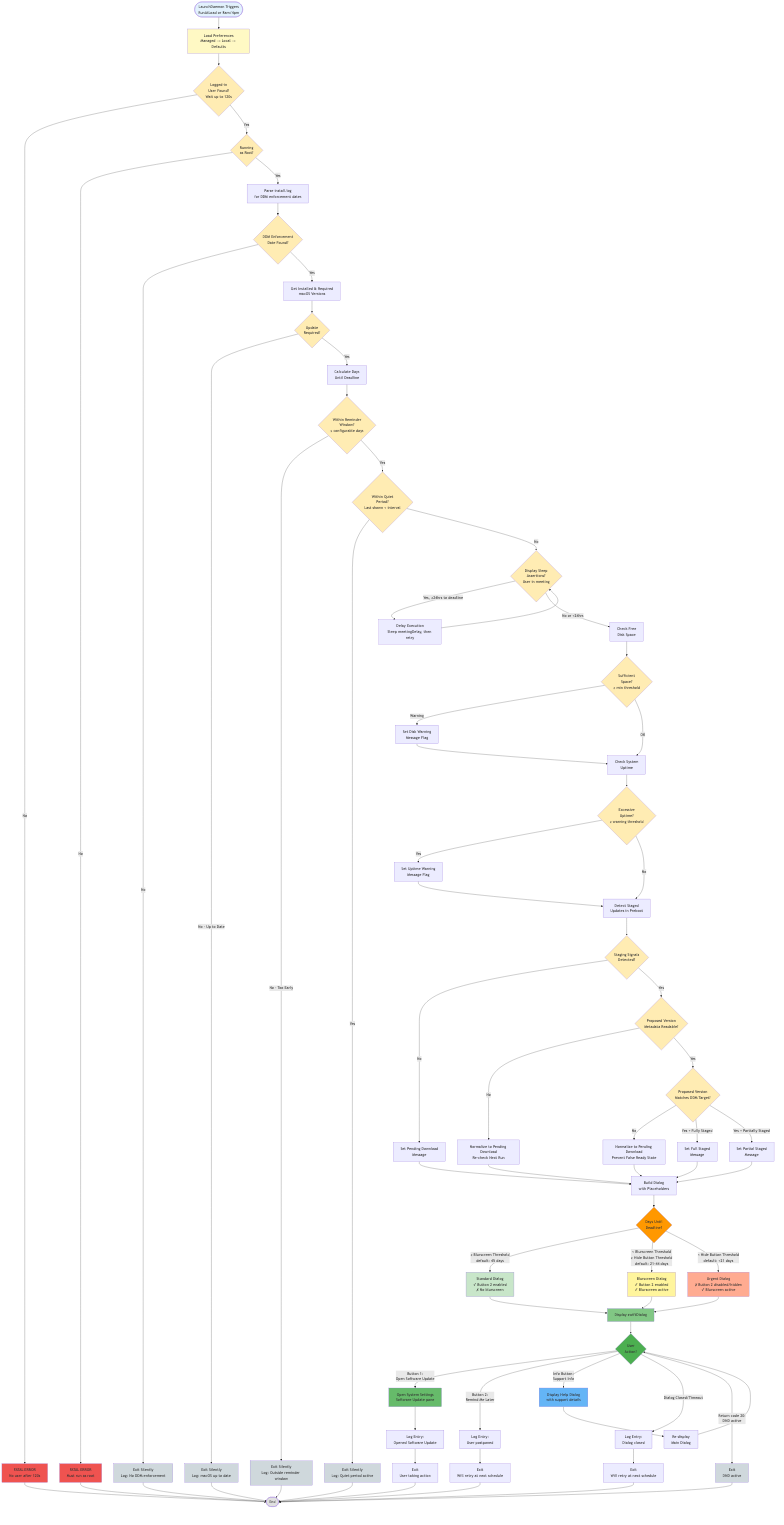
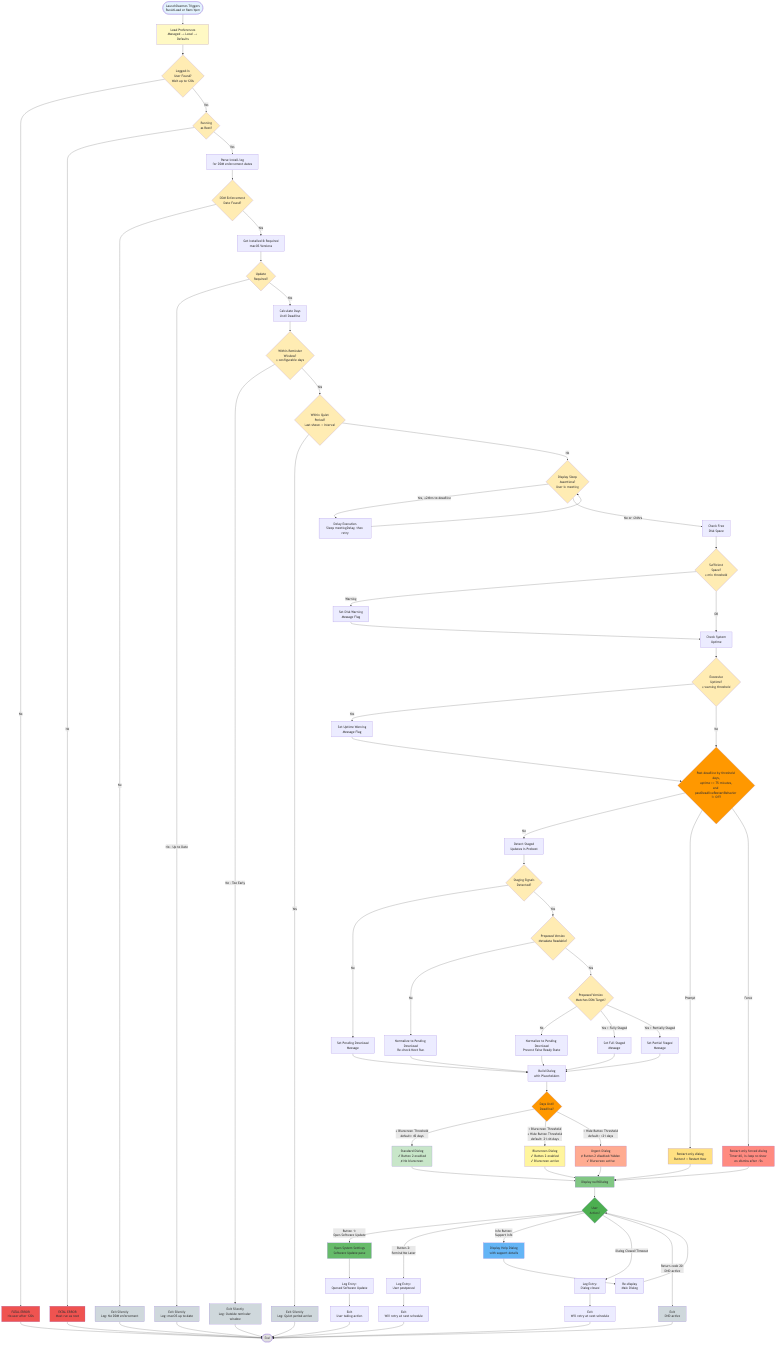
2.6.0b4

diff --git a/Diagrams/06-configuration-reference.md b/Diagrams/06-configuration-reference.md
@@ -288,6 +288,7 @@ sudo defaults write /Library/Preferences/org.churchofjesuschrist.dorm \
 - `versionComparisonResult` = Update Required
 - DDM enforcement deadline is in the past
 - Days past DDM deadline are greater than or equal to `daysPastDeadlineRestartWorkflow`
+- Current uptime is greater than or equal to 75 minutes
 
 **Script Default**:
 ```bash
@@ -1720,9 +1721,10 @@ cat /Library/Managed\ Preferences/org.churchofjesuschrist.dorm.plist
 | 2.3.0 | 2026-01-19 | Initial configuration reference documentation |
 | 2.5.0 | 2026-02-14 | Updated staged-update criteria documentation to reflect proposed metadata validation and pending-download normalization behavior |
 | 2.6.0b3 | 2026-02-27 | Added `pastDeadlineRestartBehavior` and `daysPastDeadlineRestartWorkflow` configuration documentation for Yukon Cornelius behavior |
+| 2.6.0b4 | 2026-02-28 | Clarified support KB hide behavior and documented the 75-minute minimum uptime eligibility for Yukon Cornelius restart workflow |
 
 ---
 
-**Last Updated**: February 27, 2026
-**DDM OS Reminder Version**: 2.6.0b3
+**Last Updated**: February 28, 2026
+**DDM OS Reminder Version**: 2.6.0b4
 **Variables Documented**: 35 configurable preferences

diff --git a/Diagrams/02-runtime-decision-tree.md b/Diagrams/02-runtime-decision-tree.md
@@ -40,11 +40,11 @@ flowchart TD
     
     CheckUptime --> UptimeOK{Excessive<br/>Uptime?<br/>≥ warning threshold}
     UptimeOK -->|Yes| SetUptimeWarn[Set Uptime Warning<br/>Message Flag]
-    UptimeOK -->|No| DetectStaged
+    UptimeOK -->|No| CheckYukon
     SetUptimeWarn --> CheckYukon{Past deadline by threshold days,<br/>uptime >= 75 minutes,<br/>and pastDeadlineRestartBehavior != Off?}
     CheckYukon -->|No| DetectStaged[Detect Staged<br/>Updates in Preboot]
     CheckYukon -->|Prompt| YukonPrompt[Restart-only dialog<br/>Button1 = Restart Now]
-    CheckYukon -->|Force| YukonForce[Restart-only forced dialog<br/>Timer 60, in-loop re-show on dismiss (~5s)]
+    CheckYukon -->|Force| YukonForce[Restart-only forced dialog<br/>Timer 60, in-loop re-show on dismiss after ~5s]
     
     DetectStaged --> StagedSignals{Staging Signals<br/>Detected?}
     StagedSignals -->|No| SetPending[Set Pending Download<br/>Message]

diff --git a/Diagrams/README.md b/Diagrams/README.md
@@ -77,7 +77,7 @@ This directory contains comprehensive, **AI-generated** visual diagrams to augme
 ---
 
 ### 6. [Configuration Reference](06-configuration-reference.md)
-**Purpose**: Complete reference for all 33 configurable preferences
+**Purpose**: Complete reference for all 35 configurable preferences
 
 **Shows**:
 - Quick reference table (all variables at a glance)
